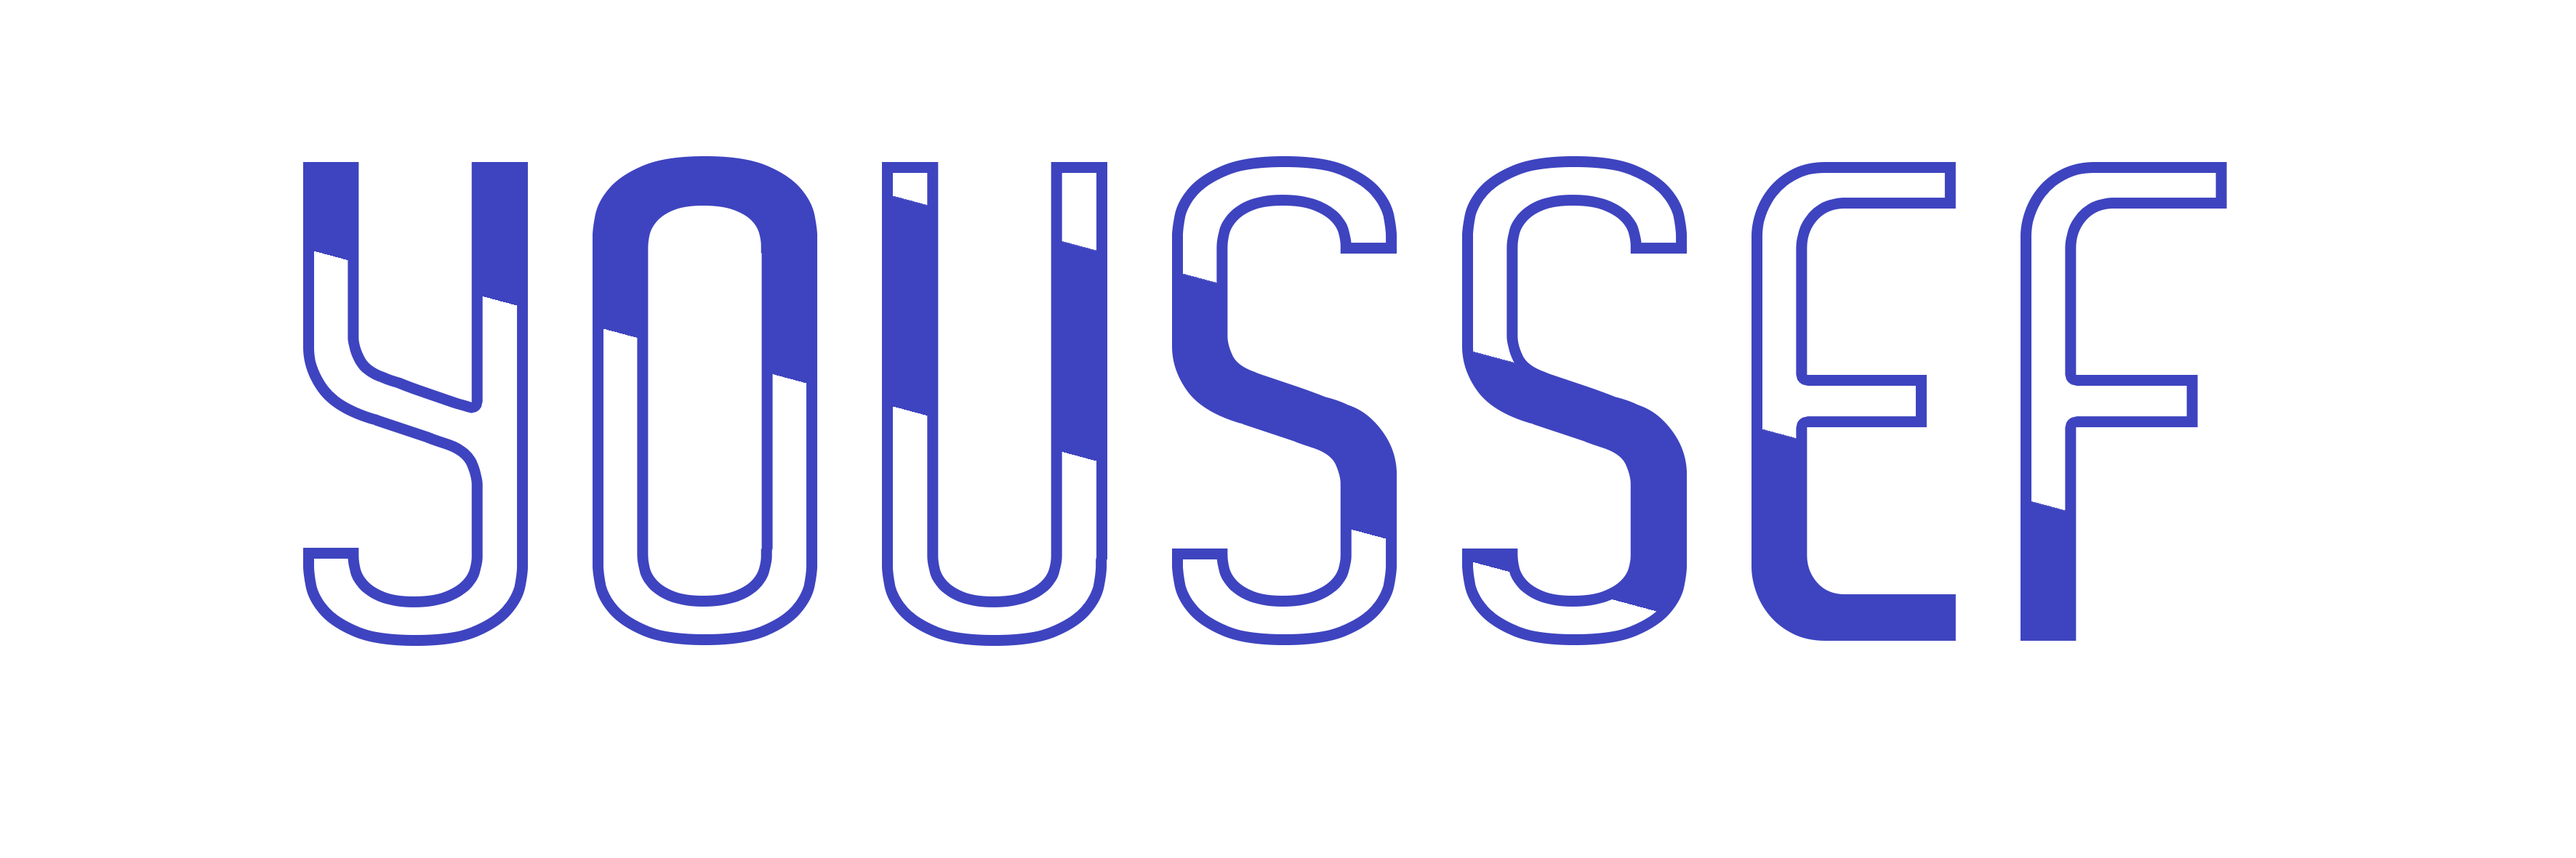
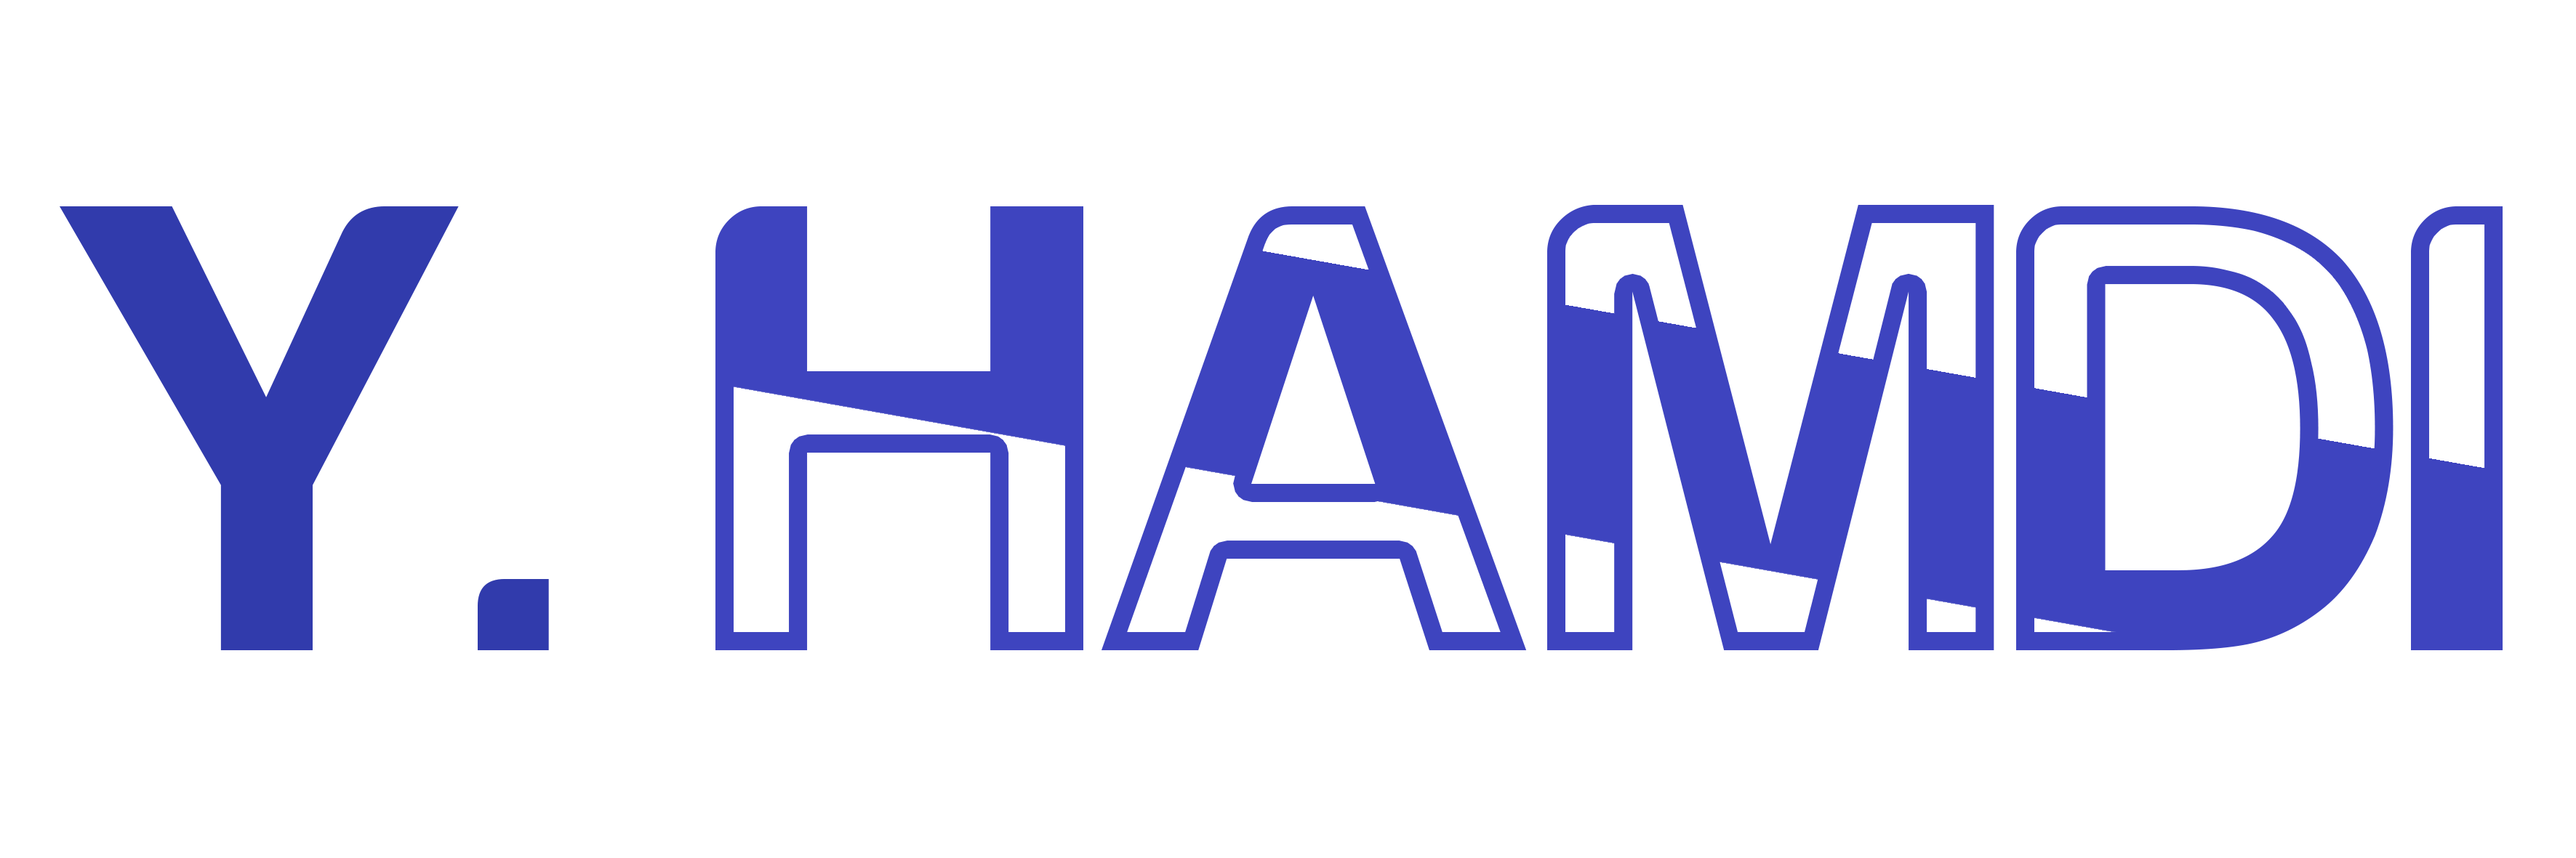
editing

Changed region(s): [[0.0, 0.1829, 0.9935, 0.7621]]

diff --git a/app/components/Header/Navbar/Navbar.js b/app/components/Header/Navbar/Navbar.js
@@ -8,7 +8,7 @@ const Navbar = () => {
     <nav className="w-full flex justify-between items-center px-8 py-4 bg-white/25 backdrop-blur-sm border-[1px] border-white/[0.18] fixed z-50">
       <div className="flex justify-start items-center ">
         <Image
-          src={images.youssef2}
+          src={images.youssef}
           alt="Logo"
           priority
           quality={100}
@@ -16,22 +16,20 @@ const Navbar = () => {
         />
       </div>
       <ul className="hidden Lmd:flex flex-1 justify-center items-center ">
-        {["home", "about", "work", "skills", "contact"].map(
-          (item) => (
-            <li
-              key={`link-${item}`}
-              className="flex justify-center items-center p-text flex-col cursor-pointer mx-4 group"
+        {["home", "about", "work", "skills", "contact"].map((item) => (
+          <li
+            key={`link-${item}`}
+            className="flex justify-center items-center p-text flex-col cursor-pointer mx-4 group"
+          >
+            <div className="w-[5px] h-[5px] rounded-full bg-transparent mb-[5px] group-hover:bg-secondary" />
+            <Link
+              href={`#${item}`}
+              className="text-gray flex-col uppercase font-[500] transition-all duration-300 ease-in-out hover:text-secondary "
             >
-              <div className="w-[5px] h-[5px] rounded-full bg-transparent mb-[5px] group-hover:bg-secondary" />
-              <Link
-                href={`#${item}`}
-                className="text-gray flex-col uppercase font-[500] transition-all duration-300 ease-in-out hover:text-secondary "
-              >
-                {item}
-              </Link>
-            </li>
-          )
-        )}
+              {item}
+            </Link>
+          </li>
+        ))}
       </ul>
       <MobileNavbar />
     </nav>

diff --git a/app/constants/images.js b/app/constants/images.js
@@ -37,9 +37,6 @@ import spotify from "../../public/assets/spotify.png";
 import next from "../../public/assets/next.svg";
 import tailwind from "../../public/assets/tailwind.png";
 import youssef from "../../public/assets/youssef.png";
-import youssef2 from "../../public/assets/youssef2.png";
-import youssef3 from "../../public/assets/youssef3.png";
-import youssef4 from "../../public/assets/youssef4.png";
 import nextAbout from "../../public/assets/nextAbout.jpeg";
 
 export default {
@@ -79,8 +76,5 @@ export default {
   next,
   tailwind,
   youssef,
-  youssef2,
-  youssef3,
-  youssef4,
   nextAbout,
 };
